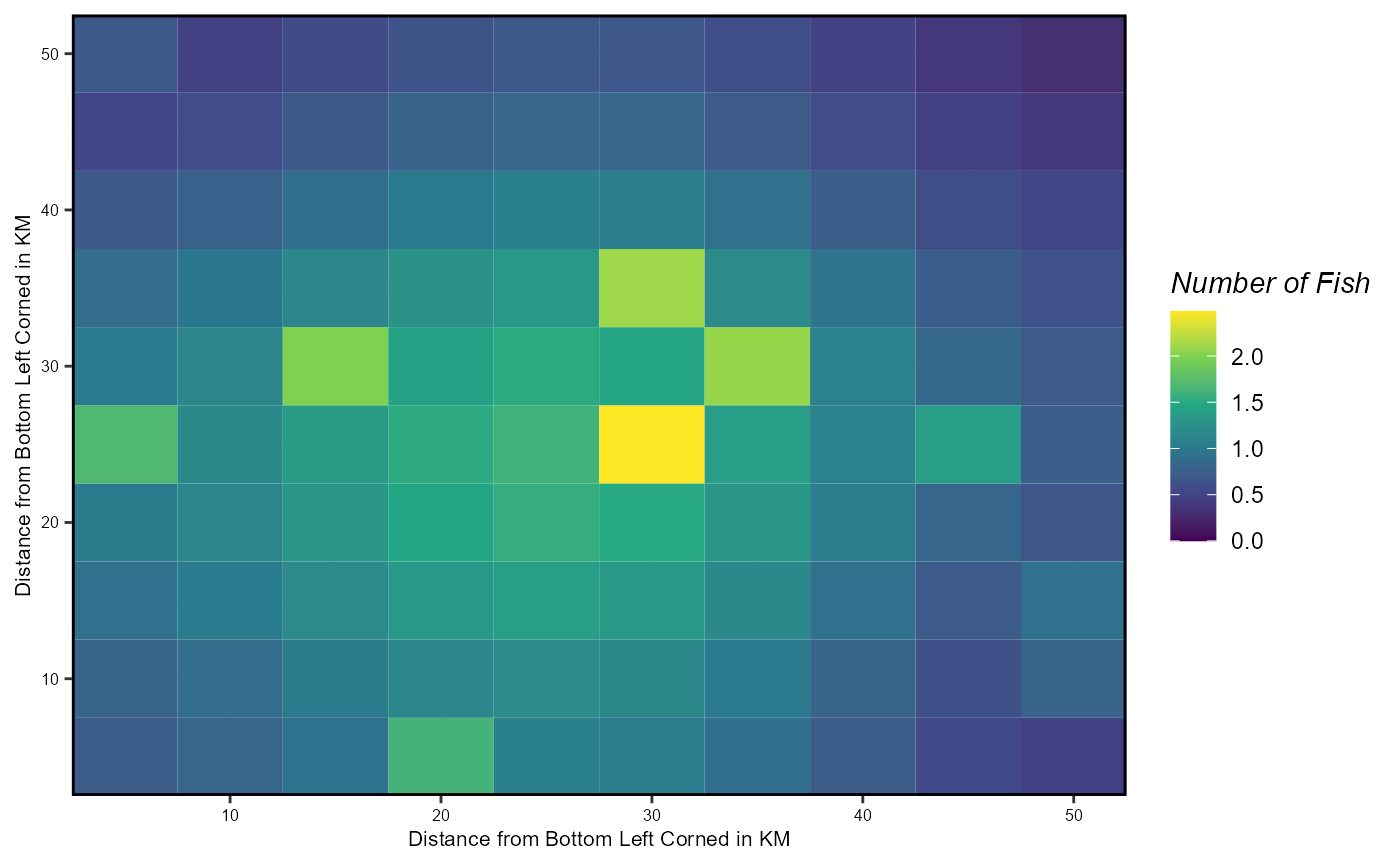
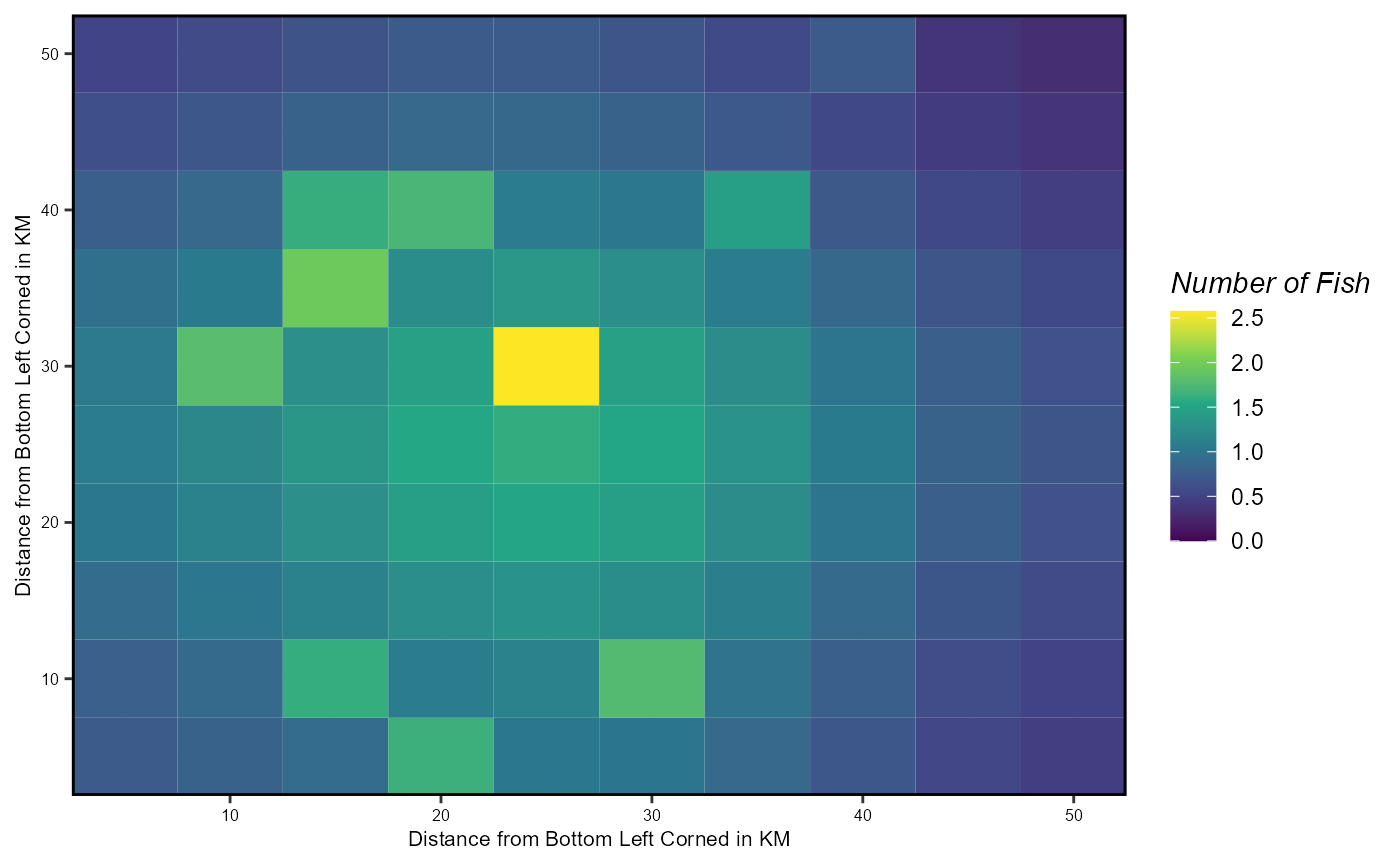
a few more tweeks

diff --git a/docs/articles/tune-movement.html b/docs/articles/tune-movement.html
@@ -215,8 +215,8 @@ the spatial and temporal resolution of the simulation itself.</p>
 <li>a 10x10 simulation grid</li>
 <li>width of a square cell side <span class="math inline">\(\Delta_d\)</span> of 5km</li>
 <li>a time step <span class="math inline">\(\Delta_t\)</span> of one
-quarter (1/4 years)</li>
-<li>a diffusion parameter <em>D</em> of 20 km<sup>2</sup>/year</li>
+year</li>
+<li>a diffusion parameter <em>D</em> of 100 km<sup>2</sup>/year</li>
 </ul>
 <p>While we could run this through <code>marlin</code>, we’re going to
 actually step through the calculations here so readers can get a sense
